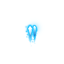
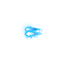
Refactor

Changed region(s): [[0.3438, 0.3438, 0.6875, 0.6875]]

diff --git a/src/game.rs b/src/game.rs
@@ -9,17 +9,17 @@ use self::gfx_device_gl::{Resources, CommandBuffer};
 
 
 
-use object::Object;
-
+use ship::Ship;
+use ship::ShipTurn;
+use ship::ShipThrust;
 
 use na::{ Vector2, Point2 };
 
 pub type Vec2 = na::Vector2<f64>;
 
 pub struct Game<T: character::CharacterCache> {
-    player: Object,
-    up_d: bool, down_d: bool, left_d: bool, right_d: bool,
-    sprint: bool,
+    player: Ship,
+    up_d: bool, down_d: bool, left_d: bool, right_d: bool, shift_d: bool,
     glyphs: T
 }
 
@@ -29,58 +29,21 @@ use std;
 impl <T : character::CharacterCache> Game <T  > {
     pub fn new(w: &mut PistonWindow, g: T) -> Game<T> {
 
-        let assets = find_folder::Search::ParentsThenKids(3, 3).for_folder("assets").unwrap();
-        let ship_sprite = assets.join("ship.gif");
-        let ship_sprite = Texture::from_path(
-                &mut w.factory,
-                &ship_sprite,
-                Flip::None,
-                &TextureSettings::new())
-                .unwrap();
+        let mut p = Ship::new(w);
 
-        let mut p = Object::new();
-
-        let sprites = get_ship_assets(w);
-        p.set_sprites(sprites);
-
-        Game { player: p, up_d: false, down_d: false, left_d: false, right_d: false, glyphs: g, sprint: false }
+        Game { player: p, up_d: false, down_d: false, left_d: false, right_d: false, shift_d: false, glyphs: g }
     }
-
-
-
 
     pub fn on_update(&mut self, upd: UpdateArgs) {
-
-        let acceleration = if self.sprint { 2.0 } else { 1.0 };
-
-        if self.up_d {
-            self.player.vel += Vec2::new(self.player.rot.cos(), self.player.rot.sin()) * acceleration;
-        }
-        if self.down_d {
-            self.player.vel -= Vec2::new(self.player.rot.cos(), self.player.rot.sin()) * acceleration;
-        }
-        if self.left_d {
-            self.player.rot -= 0.01 * acceleration;
-        }
-        if self.right_d {
-            self.player.rot += 0.01 * acceleration;
-        }
-
-        self.player.fwd(upd.dt);
+        self.player.on_update(upd.dt);
     }
+
     pub fn on_draw<W, E>(&mut self, ren: RenderArgs, w: &mut PistonWindow<W>, e: &E)
     where W: Window, W::Event: GenericEvent, E: GenericEvent,
           T: character::CharacterCache< Texture = Texture<gfx_device_gl::Resources>>
     {
 
-        // let glyphs =
-        //        &mut Glyphs::new(font, factory).unwrap() as
-        //        &mut character::CharacterCache< Texture = Texture<gfx_device_gl::Resources> >
-        //    ;
-
-
         w.draw_2d(e, |c, graphics| {
-
 
             let damp = 200.0;
 
@@ -99,19 +62,32 @@ impl <T : character::CharacterCache> Game <T  > {
             //rectangle(red, square, center.rot_rad(self.rotation).trans(-50.0, -50.0), graphics);
             let transform = c.transform.trans(10.0, 10.0);
 
-            text(red, 12, &format!("Sprint: {}", self.sprint), &mut self.glyphs, transform, graphics)
+            text(red, 12, &format!("loc: {}", self.player.loc), &mut self.glyphs, transform, graphics)
 
         });
     }
-    fn dir_changed(&mut self) {
-        self.player.currSprite = match (self.left_d, self.right_d, self.sprint) {
-            (true, false, true) => 0,
-            (true, false, false) => 1,
-            (true, true, _) => 2,
-            (false, false, _) => 2,
-            (false, true, false) => 3,
-            (false, true, true) => 4
-        }
+
+    fn controls_changed(&mut self) {
+        self.player.boosting = self.shift_d;
+
+        self.player.turning = match (self.left_d, self.right_d) {
+            (true, false) => ShipTurn::Left,
+            (true, true) => ShipTurn::None,
+            (false, false) => ShipTurn::None,
+            (false, true) => ShipTurn::Right
+        };
+        self.player.turning = match (self.left_d, self.right_d) {
+            (true, false) => ShipTurn::Left,
+            (true, true) => ShipTurn::None,
+            (false, false) => ShipTurn::None,
+            (false, true) => ShipTurn::Right
+        };
+        self.player.thrusting = match (self.up_d, self.down_d) {
+            (true, false) => ShipThrust::Engaged,
+            (true, true) => ShipThrust::None,
+            (false, false) => ShipThrust::None,
+            (false, true) => ShipThrust::Reverse
+        };
     }
 
     pub fn on_input(&mut self, inp: Input) {
@@ -135,7 +111,7 @@ impl <T : character::CharacterCache> Game <T  > {
                         true
                     },
                     Button::Keyboard(Key::LShift) => {
-                        self.sprint = true;
+                        self.shift_d = true;
                         true
                     },
                     _ => false
@@ -160,7 +136,7 @@ impl <T : character::CharacterCache> Game <T  > {
                         true
                     }
                     Button::Keyboard(Key::LShift) => {
-                        self.sprint = false;
+                        self.shift_d = false;
                         true
                     }
                     _ => false
@@ -170,28 +146,8 @@ impl <T : character::CharacterCache> Game <T  > {
         };
 
         if did_change {
-            self.dir_changed();
+            self.controls_changed();
         }
 
     }
-}
-
-
-
-fn get_ship_assets(w: &mut PistonWindow) -> Vec<Texture<Resources>> {
-    let assets = find_folder::Search::ParentsThenKids(3, 3).for_folder("assets").unwrap();
-
-
-    vec!["l1", "l2", "m", "r1", "r2"].iter().map(|x| {
-        let spritename = format!("Player/player_b_{}.png", x);
-        //println!("Trying with {}", spritename);
-        let ship_sprite = assets.join(spritename);
-        Texture::from_path(
-                &mut w.factory,
-                &ship_sprite,
-                Flip::None,
-                &TextureSettings::new())
-                .unwrap()
-    }).collect()
-
 }

diff --git a/src/ship.rs b/src/ship.rs
@@ -1,0 +1,135 @@
+use piston_window::*;
+
+extern crate gfx_device_gl;
+extern crate find_folder;
+extern crate gfx_graphics;
+extern crate gfx;
+extern crate nalgebra as na;
+
+
+use self::gfx_device_gl::{Resources, CommandBuffer};
+use self::gfx_graphics::GfxGraphics;
+
+use na::{ Vector2, Point2 };
+
+pub type Vec2 = na::Vector2<f64>;
+pub type Pnt2 = Point2<f64>;
+
+pub enum ShipTurn {
+    None, Left, Right
+}
+
+pub enum ShipThrust {
+    None, Reverse, Engaged
+}
+
+
+pub struct Ship {
+    pub loc: Pnt2,
+    pub rot: f64,
+    pub vel: Vec2,
+    frames: Vec<Texture<Resources>>,
+    exhausts: Vec<Texture<Resources>>,
+    pub boosting: bool,
+    pub turning: ShipTurn,
+    pub thrusting: ShipThrust
+}
+
+
+impl Ship {
+    pub fn new(w: &mut PistonWindow) -> Ship {
+        Ship {
+            loc: Pnt2::new(0.0, 0.0),
+            rot: 0.0,
+            vel: Vec2::new(0.0, 0.0),
+            frames: get_ship_frames(w),
+            exhausts: get_ship_exhausts(w),
+            boosting: false,
+            turning: ShipTurn::None,
+            thrusting: ShipThrust::None
+        }
+    }
+
+    pub fn on_update(&mut self, dt: f64) {
+        let mult = if self.boosting { 2.0 } else { 1.0 };
+
+        self.rot += dt * match self.turning {
+            ShipTurn::None => 0.0,
+            ShipTurn::Left => -0.01 * mult,
+            ShipTurn::Right => 0.01 * mult
+        };
+
+        self.vel += dt * match self.thrusting {
+            ShipThrust::None => Vec2::new(0.0, 0.0),
+            ShipThrust::Engaged => Vec2::new(self.rot.cos(), self.rot.sin()) * mult,
+            ShipThrust::Reverse => Vec2::new(self.rot.cos(), self.rot.sin()) * -mult,
+        };
+
+    }
+
+    fn get_curr_frame(&self) -> usize {
+        match (self.turning, self.boosting) {
+            (ShipTurn::Left, true) => 0,
+            (ShipTurn::Left, false) => 1,
+            (ShipTurn::None, _) => 2,
+            (ShipTurn::Right, false) => 3,
+            (ShipTurn::Right, true) => 4,
+        }
+    }
+
+    pub fn render(&self, g: &mut GfxGraphics<Resources, CommandBuffer>, view: math::Matrix2d) {
+        let square = rectangle::square(0.0, 0.0, 100.0);
+        let red = [1.0, 0.0, 0.0, 1.0];
+
+        match self.frames.get(self.get_curr_frame()) {
+            Some(frame) => {
+                let (x, y) = frame.get_size();
+                let (x, y) = ((x as f64) / -2.0, (y as f64) / -2.0);
+
+                image(frame, view
+                    .trans(self.loc.x, self.loc.y)
+                    .rot_rad(self.rot)
+                    .trans(x, y)
+                    , g);
+
+                //rectangle(red, rectangle::square())
+            }
+            _ => {}
+        }
+    }
+
+}
+
+fn get_ship_frames(w: &mut PistonWindow) -> Vec<Texture<Resources>> {
+    let assets = find_folder::Search::ParentsThenKids(3, 3).for_folder("assets").unwrap();
+
+
+    vec!["l1", "l2", "m", "r1", "r2"].iter().map(|x| {
+        let spritename = format!("Player/player_b_{}.png", x);
+        //println!("Trying with {}", spritename);
+        let ship_sprite = assets.join(spritename);
+        Texture::from_path(
+                &mut w.factory,
+                &ship_sprite,
+                Flip::None,
+                &TextureSettings::new())
+                .unwrap()
+    }).collect()
+
+}
+
+fn get_ship_exhausts(w: &mut PistonWindow) -> Vec<Texture<Resources>> {
+    let assets = find_folder::Search::ParentsThenKids(3, 3).for_folder("assets").unwrap();
+
+    vec!["01", "02", "03", "04", "05"].iter().map(|x| {
+        let spritename = format!("Player/exhaust_{}.png", x);
+        let ship_sprite = assets.join(spritename);
+        Texture::from_path(
+                &mut w.factory,
+                &ship_sprite,
+                Flip::None,
+                &TextureSettings::new())
+                .unwrap()
+    }).collect()
+
+}

diff --git a/src/main.rs b/src/main.rs
@@ -5,10 +5,10 @@ extern crate find_folder;
 
 use piston_window::*;
 
-mod object;
+mod ship;
 mod game;
 
-use object::Object;
+use ship::Ship;
 use game::Game;
 
 
